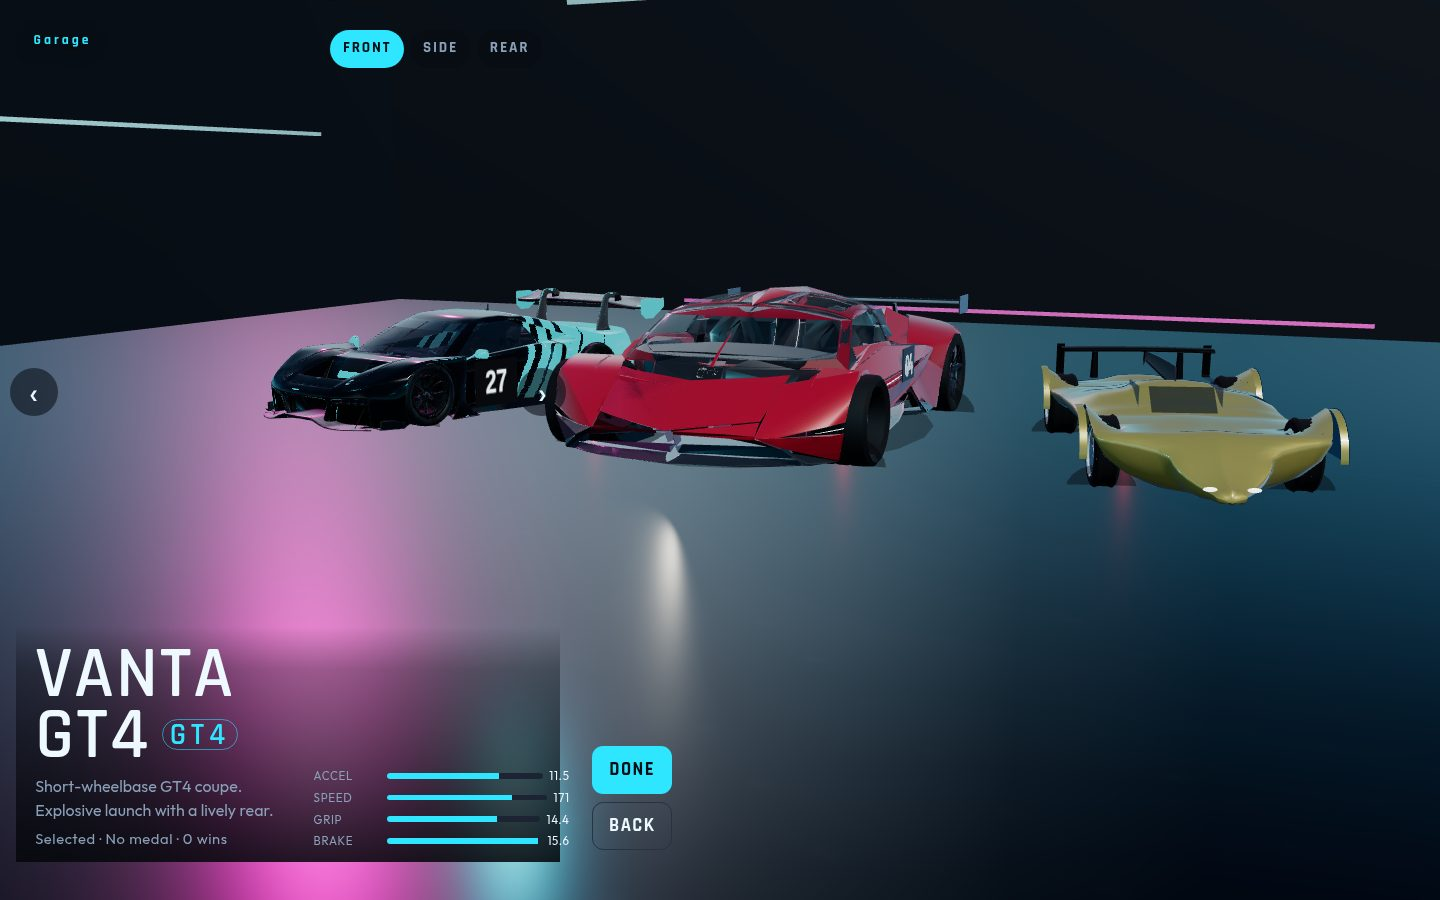
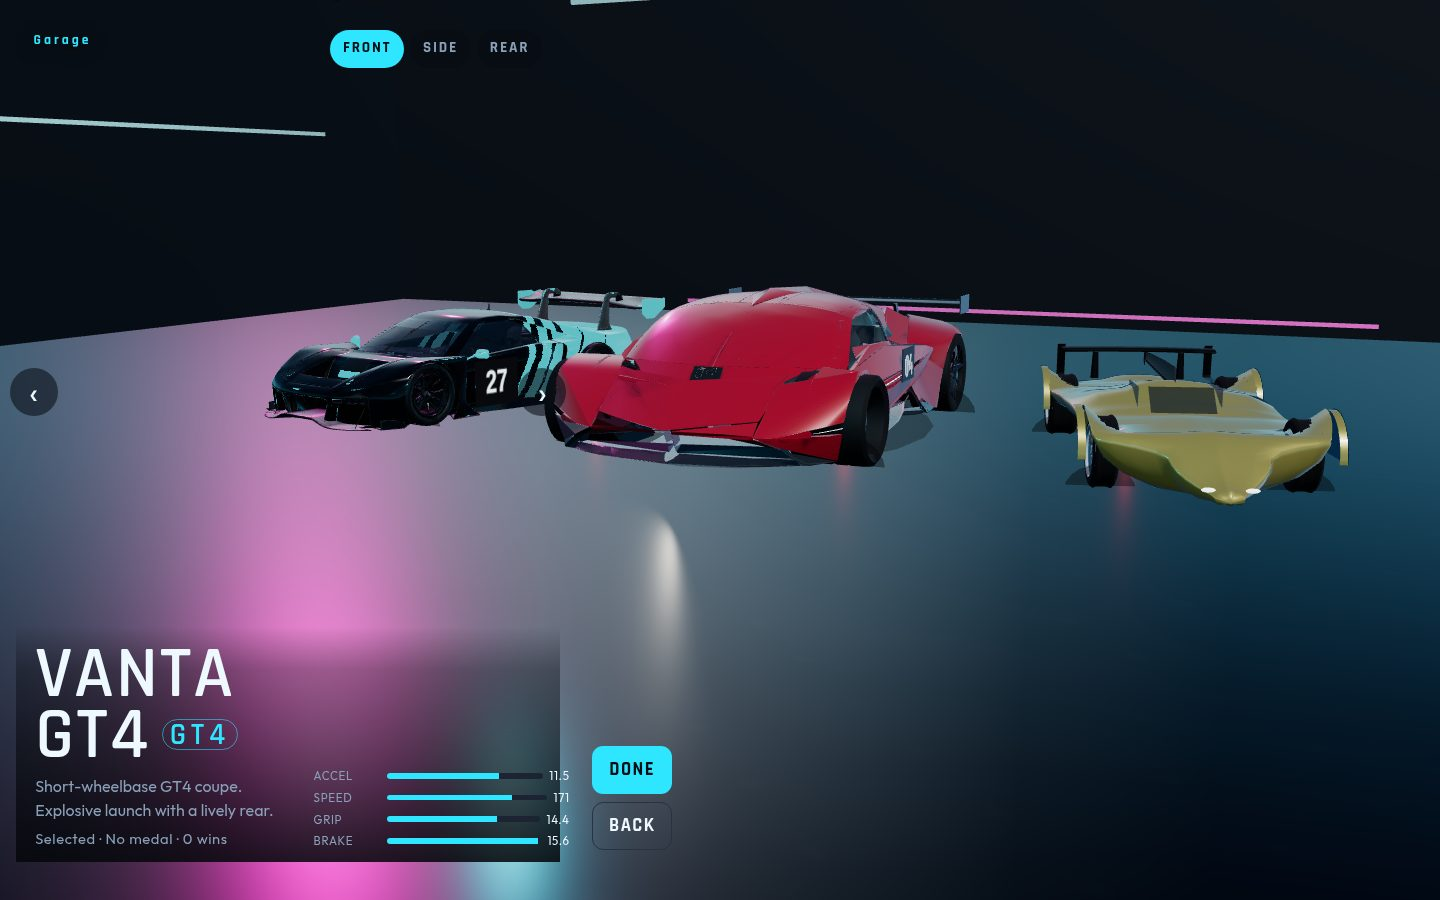
Keep Vanta's body shell opaque and leave only the windows as dark glass.
The GLASS primitive also covered the hood, roof, fenders and sills, and it was drawn with alpha blend, transmission and depth writes off, so the cabin showed through. Those panels are now body paint.

diff --git a/src/game/car-assets.ts b/src/game/car-assets.ts
@@ -145,9 +145,9 @@ async function loadAll(renderer: THREE.WebGLRenderer): Promise<void> {
     for (const id of Object.keys(FILES) as Array<Exclude<CarId, "surge">>) {
       const file = FILES[id];
       const [show, lod1, lod2] = await Promise.all([
-        file.show ? loader.loadAsync(file.show).then((gltf) => buildLevel(gltf.scene)) : Promise.resolve(null),
-        loader.loadAsync(file.lod1).then((gltf) => buildLevel(gltf.scene)),
-        loader.loadAsync(file.lod2).then((gltf) => buildLevel(gltf.scene)),
+        file.show ? loader.loadAsync(file.show).then((gltf) => buildLevel(gltf.scene, id)) : Promise.resolve(null),
+        loader.loadAsync(file.lod1).then((gltf) => buildLevel(gltf.scene, id)),
+        loader.loadAsync(file.lod2).then((gltf) => buildLevel(gltf.scene, id)),
       ]);
       prepared.set(id, { show: show ?? lod1, lod1, lod2, fit: fitOf(id, show ?? lod1) });
     }
@@ -184,7 +184,76 @@ function fitOf(
   };
 }
 
-function buildLevel(root: THREE.Object3D): Level {
+/** The GLASS primitive also covers hood, roof, fender and sill panels. Those
+ * read as holes because the glass material is alpha-blended. Windows stay
+ * glass; the shell panels are copied onto the opaque body paint. */
+function sealVantaShell(root: THREE.Object3D): void {
+  let body: THREE.Mesh | undefined;
+  let glass: THREE.Mesh | undefined;
+  root.traverse((obj) => {
+    const mesh = obj as THREE.Mesh;
+    if (!mesh.isMesh) return;
+    const material = (Array.isArray(mesh.material) ? mesh.material[0] : mesh.material) as THREE.Material | undefined;
+    if (material?.name === "BODY" && !body) body = mesh;
+    if (material?.name === "GLASS" && !glass) glass = mesh;
+  });
+  const index = glass?.geometry.getIndex();
+  const position = glass?.geometry.getAttribute("position");
+  if (!body || !glass || !index || !position) return;
+  root.updateMatrixWorld(true);
+  const keep: number[] = [];
+  const move: number[] = [];
+  const a = new THREE.Vector3();
+  const b = new THREE.Vector3();
+  const c = new THREE.Vector3();
+  const center = new THREE.Vector3();
+  const normal = new THREE.Vector3();
+  for (let t = 0; t < index.count; t += 3) {
+    const i0 = index.getX(t);
+    const i1 = index.getX(t + 1);
+    const i2 = index.getX(t + 2);
+    a.fromBufferAttribute(position, i0).applyMatrix4(glass.matrixWorld);
+    b.fromBufferAttribute(position, i1).applyMatrix4(glass.matrixWorld);
+    c.fromBufferAttribute(position, i2).applyMatrix4(glass.matrixWorld);
+    center.copy(a).add(b).add(c).multiplyScalar(1 / 3);
+    normal.subVectors(b, a).cross(c.sub(a)).normalize();
+    const window =
+      Math.abs(normal.y) < 0.55 &&
+      center.y > 0.52 &&
+      center.y < 1.2 &&
+      center.z > -0.35 &&
+      center.z < 1.7 &&
+      Math.abs(center.x) < 0.9;
+    (window ? keep : move).push(i0, i1, i2);
+  }
+  if (move.length === 0) return;
+  const shell = new THREE.BufferGeometry();
+  shell.setAttribute("position", position);
+  const normalAttr = glass.geometry.getAttribute("normal");
+  if (normalAttr) shell.setAttribute("normal", normalAttr);
+  const color = new Float32Array(position.count * 3);
+  const red = 0.42;
+  const green = 0.012;
+  const blue = 0.016;
+  for (let i = 0; i < position.count; i++) {
+    color[i * 3] = red;
+    color[i * 3 + 1] = green;
+    color[i * 3 + 2] = blue;
+  }
+  shell.setAttribute("color", new THREE.BufferAttribute(color, 3));
+  shell.setIndex(move);
+  const shellMesh = new THREE.Mesh(shell, body.material);
+  shellMesh.name = "BodyShell";
+  shellMesh.position.copy(glass.position);
+  shellMesh.quaternion.copy(glass.quaternion);
+  shellMesh.scale.copy(glass.scale);
+  glass.parent?.add(shellMesh);
+  glass.geometry.setIndex(keep);
+  glass.visible = keep.length > 0;
+}
+
+function buildLevel(root: THREE.Object3D, id: Exclude<CarId, "surge">): Level {
+  if (id === "vanta") sealVantaShell(root);
   root.updateMatrixWorld(true);
   const wheels = {} as Record<CarCorner, THREE.Group>;
   const uprights = {} as Record<CarCorner, THREE.Group>;
@@ -465,13 +534,43 @@ function importedMaterial(
     }
     return mat;
   }
-  if (vehicleId === "vanta" && /^(BODY|GLASS|LIGHT|NUMBER|CALIPER|WHEEL)$/.test(source.name)) {
+  if (vehicleId === "vanta" && source.name === "GLASS") {
+    const key = "vanta-glass";
+    let mat = cache.get(key);
+    if (!mat) {
+      mat = new THREE.MeshPhysicalMaterial({
+        name: "GLASS",
+        color: 0x10161c,
+        roughness: 0.06,
+        metalness: 0.02,
+        transparent: true,
+        opacity: 0.78,
+        depthWrite: true,
+        transmission: 0,
+        side: THREE.FrontSide,
+        envMapIntensity: 0.85,
+        clearcoat: 1,
+        clearcoatRoughness: 0.05,
+      });
+      cache.set(key, mat);
+    }
+    return mat;
+  }
+  if (vehicleId === "vanta" && /^(BODY|LIGHT|NUMBER|CALIPER|WHEEL)$/.test(source.name)) {
     const key = `vanta:${source.name}:${source.uuid}`;
     let mat = cache.get(key);
     if (!mat) {
-      mat = source.clone();
-      retainTextures(mat);
-      cache.set(key, mat);
+      const opaque = source.clone() as THREE.MeshPhysicalMaterial;
+      retainTextures(opaque);
+      opaque.transparent = false;
+      opaque.opacity = 1;
+      opaque.depthWrite = true;
+      opaque.depthTest = true;
+      opaque.alphaTest = 0;
+      opaque.transmission = 0;
+      opaque.blending = THREE.NormalBlending;
+      cache.set(key, opaque);
+      mat = opaque;
     }
     return mat;
   }
